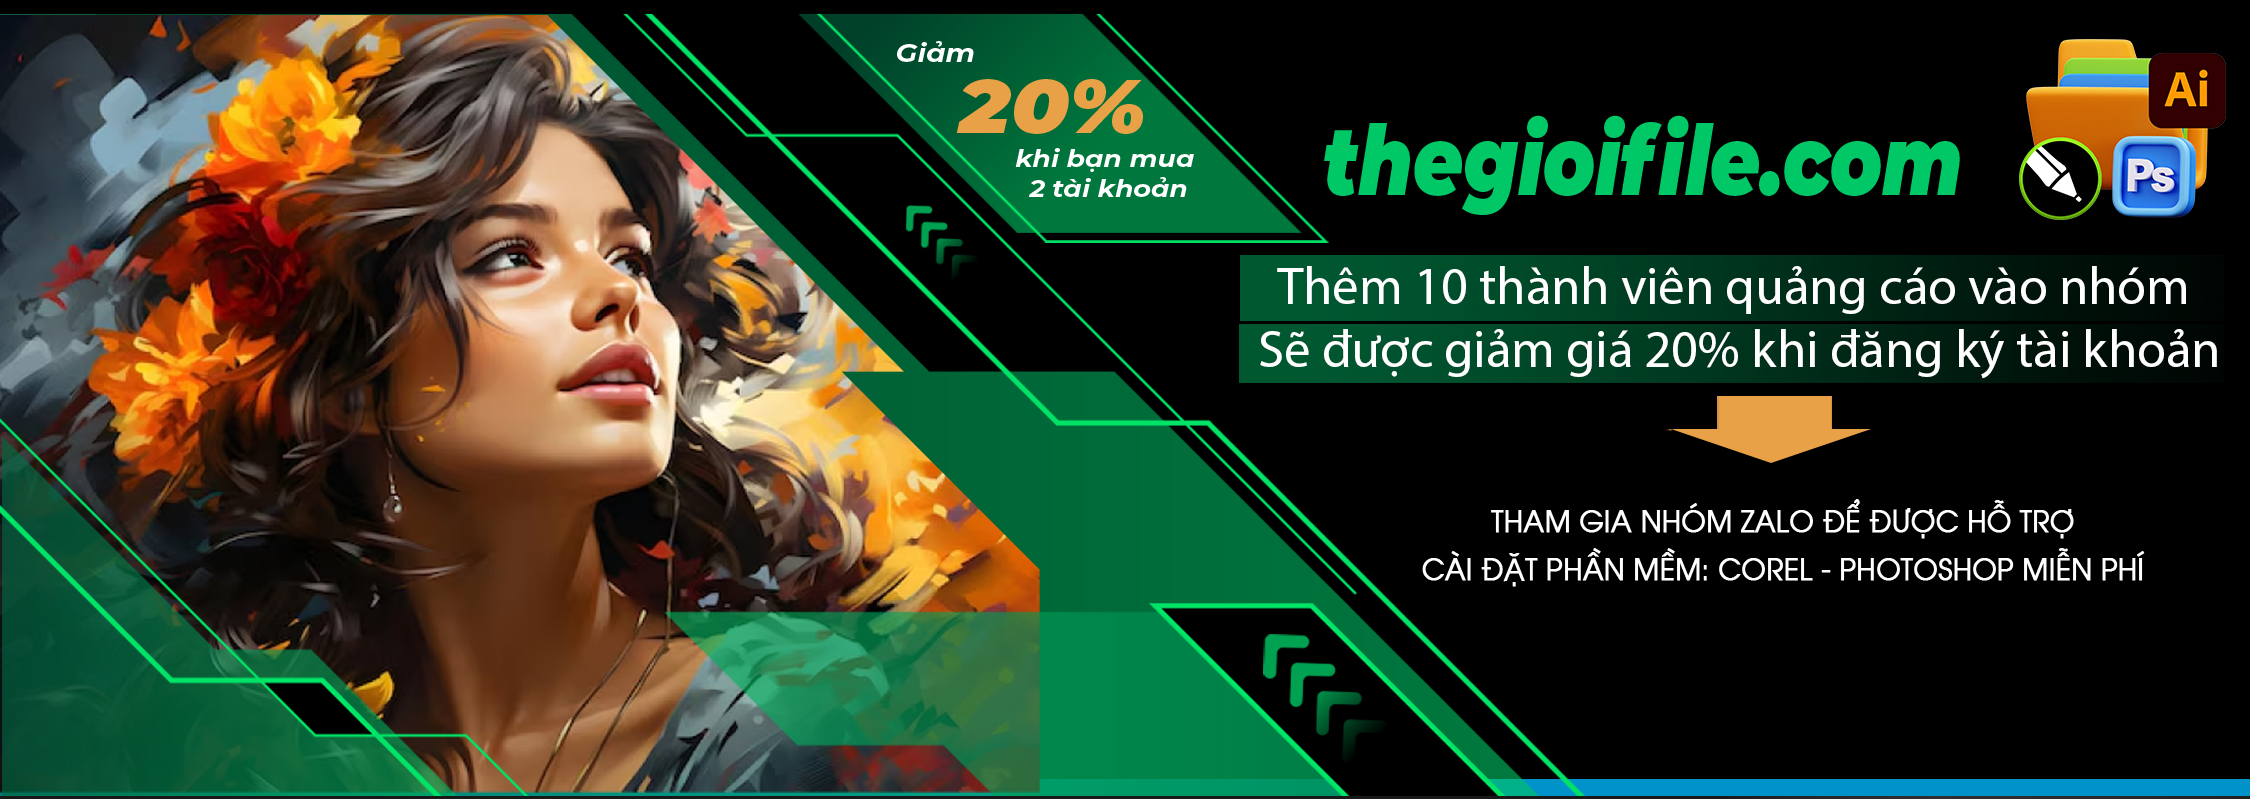
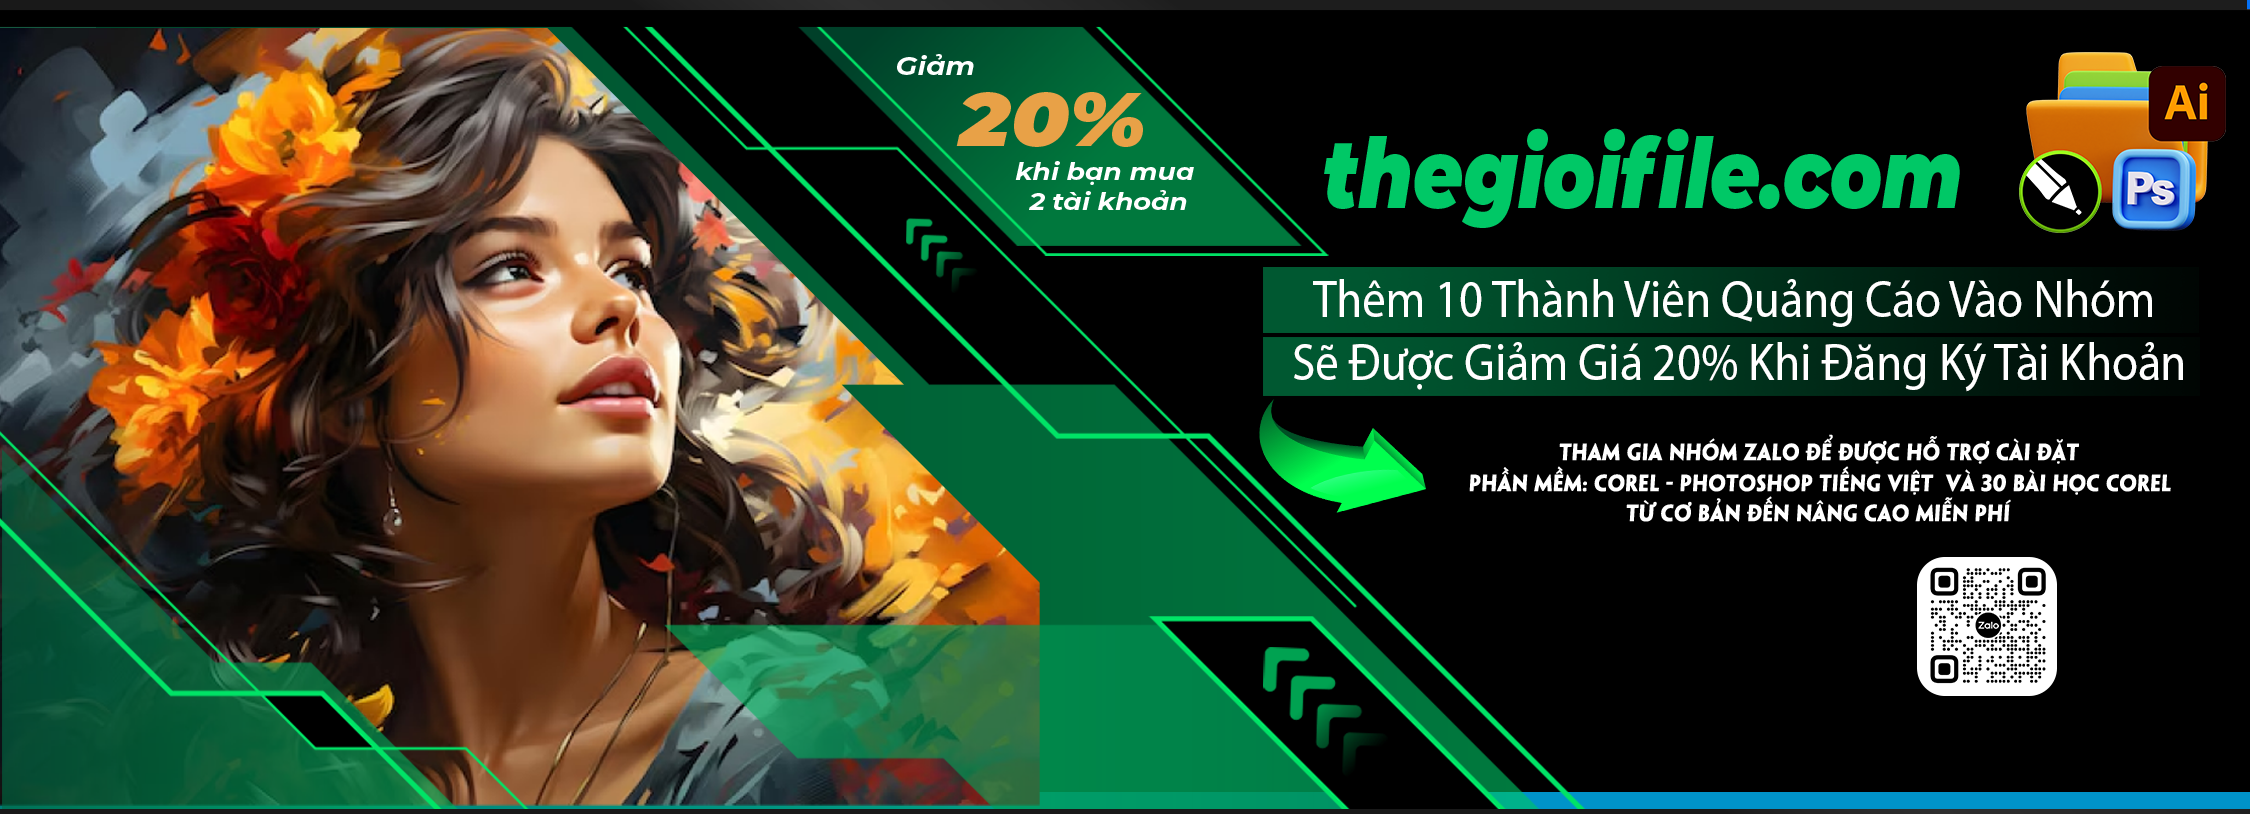
update page

diff --git a/css/style.css b/css/style.css
@@ -155,14 +155,23 @@ body{
 .banner .md-link{
   position: absolute;
   right: 5%;
-  bottom: 10%;
+  bottom: 5%;
   font-family: "Montserrat", serif;
   font-size: calc(2px + 1vw);
   background: #005831;
   padding: 5px 10px;
   border-radius: 5px;
 }
-
+.banner .md-link-2{
+  position: absolute;
+  right: 18%;
+  bottom: 20%;
+  font-family: "Montserrat", serif;
+  font-size: calc(4px + 1vw);
+  background: #0672f7;
+  padding: 5px 10px;
+  border-radius: 5px;
+}
 
 .group-tabs{
   color: #000;
@@ -255,11 +264,14 @@ body{
   background: #e8a147;
   color: #FFF;
   border-radius: 10px;
-  padding: 10px 7px;
+  padding: 5px 7px;
   line-height: 1.5;
   text-align: center;
   text-transform: uppercase;
   font-size: calc(10px + 1vw);
+  display: block;
+  margin-bottom: 5px;
+  font-weight: 700;
 }
 .md-main-text img{
   margin-top: 20px;
@@ -286,7 +298,13 @@ body{
     padding: 5px 30px 5px 20px;
     font-size: calc(10px + 1vw);
   }
-
+  .banner .md-link{
+    padding: 2px 5px;
+    right: 2%;
+  }
+  .banner .md-link-2{
+    padding: 2px 5px;
+  }
   .header .menu{
     float: none;
     width: 100%;
@@ -559,13 +577,15 @@ body{
   font-size: calc(10px + 1vw);
   font-weight: 700;
 }
-.page-dfile .md-main-text a{
-  background: #005831;
+.md-main-text a.text-dfile{
+  background: #00545c;
   color: #FFF;
   text-align: center;
-  display: block;
-  padding: 10px 0px;
-  font-size: calc(20px + 1vw);
+  display: table;
+  padding: 10px 10px;
+  margin: 0 auto;
+  border-radius: 20px;
+  font-size: calc(10px + 1vw);
   font-weight: 700;
   text-transform: uppercase;
 }

diff --git a/tai-file.html b/tai-file.html
@@ -51,7 +51,7 @@
 			<img src="./images/banner.png" alt="">
 			<a href="tel:+0769418418" class="hot-line">+0769.418.418</a>
 			<a href="#" class="md-link">ĐĂNG KÝ KHÓA HỌC THIẾT KẾ TẠI  ĐÂY</a>
-			
+			<a href="#" class="md-link-2">Nhắn tin</a>
 		</div>
 	<div class="group-tabs">
 	     <!-- Nav tabs -->
@@ -232,8 +232,8 @@
 	       </div>
 	       <div class="md-main-text">
 	       	<p class="md-text-1">Hỗ trợ cài đặt các phần mềm đồ họa tool quảng cáo <br> chăm sóc khách hàng bảo hành trọn đời<span>0769.418.418 - 0565.418.418</span></p>
-	       	<p class="md-text-2">MUA TẢI KHOẢN TẢI FILE</p>
-	       	<a href="#">Tải ngay</a>
+	       	<a href="#" class="md-text-2">MUA TẢI KHOẢN<br> TẢI FILE</a>
+	       	<a href="#" class="text-dfile">Tải ngay</a>
 	       	<img src="./images/img-4.png" alt="">
 	       </div>
 	      </div>

diff --git a/home-page.html b/home-page.html
@@ -51,7 +51,7 @@
 			<img src="./images/banner.png" alt="">
 			<a href="tel:+0769418418" class="hot-line">+0769.418.418</a>
 			<a href="#" class="md-link">ĐĂNG KÝ KHÓA HỌC THIẾT KẾ TẠI  ĐÂY</a>
-			
+			<a href="#" class="md-link-2">Nhắn tin</a>
 		</div>
 	<div class="group-tabs">
 	     <!-- Nav tabs -->
@@ -228,8 +228,10 @@
 	       </div>
 	       <div class="md-main-text">
 	       	<p class="md-text-1">Hỗ trợ cài đặt các phần mềm đồ họa tool quảng cáo <br> chăm sóc khách hàng bảo hành trọn đời<span>0769.418.418 - 0565.418.418</span></p>
-	       	<p class="md-text-2">MUA TẢI KHOẢN TẢI FILE</p>
+	       	<a href="#" class="md-text-2">MUA TẢI KHOẢN<br> TẢI FILE</a>
+	       	<a href="#" class="text-dfile">Tải ngay</a>
 	       	<img src="./images/img-4.png" alt="">
+
 	       </div>
 	      </div>
 

diff --git a/thanh-toan.html b/thanh-toan.html
@@ -51,7 +51,7 @@
 			<img src="./images/banner.png" alt="">
 			<a href="tel:+0769418418" class="hot-line">+0769.418.418</a>
 			<a href="#" class="md-link">ĐĂNG KÝ KHÓA HỌC THIẾT KẾ TẠI  ĐÂY</a>
-			
+			<a href="#" class="md-link-2">Nhắn tin</a>
 		</div>
 	
 	<div class="main-page-dangky main-page-thanhtoan">

diff --git a/dang-ky.html b/dang-ky.html
@@ -51,7 +51,7 @@
 			<img src="./images/banner.png" alt="">
 			<a href="tel:+0769418418" class="hot-line">+0769.418.418</a>
 			<a href="#" class="md-link">ĐĂNG KÝ KHÓA HỌC THIẾT KẾ TẠI  ĐÂY</a>
-			
+			<a href="#" class="md-link-2">Nhắn tin</a>
 		</div>
 	
 	<div class="main-page-dangky-2 clearfix">

diff --git a/dang-ky-2.html b/dang-ky-2.html
@@ -51,7 +51,7 @@
 			<img src="./images/banner.png" alt="">
 			<a href="tel:+0769418418" class="hot-line">+0769.418.418</a>
 			<a href="#" class="md-link">ĐĂNG KÝ KHÓA HỌC THIẾT KẾ TẠI  ĐÂY</a>
-			
+			<a href="#" class="md-link-2">Nhắn tin</a>
 		</div>
 	
 	<div class="main-page-dangky">
